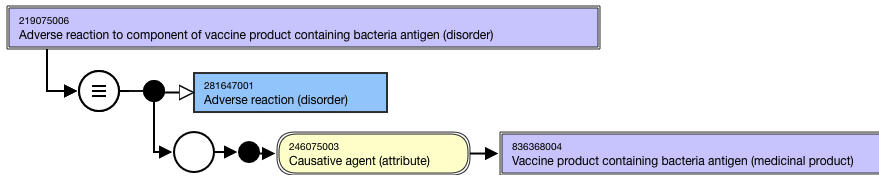
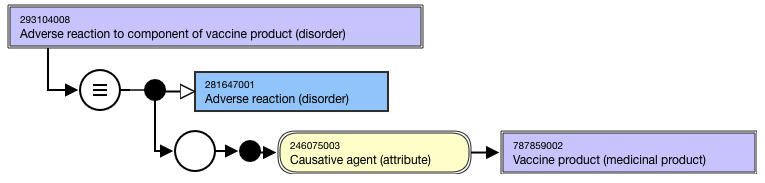
GITBOOK-405: No subject

Changed region(s): [[0.1503, 0.7104, 1.0, 0.9563], [0.0, 0.0, 0.6915, 0.2732], [0.0301, 0.3552, 0.5111, 0.6284]]

diff --git a/readme/authoring/domain-specific-modeling/clinical-finding-and-disorder/clinical-finding-and-disorder-modeling/specific-clinical-finding-and-disorder-modeling/adverse-reaction-to-x-vaccine.md b/readme/authoring/domain-specific-modeling/clinical-finding-and-disorder/clinical-finding-and-disorder-modeling/specific-clinical-finding-and-disorder-modeling/adverse-reaction-to-x-vaccine.md
@@ -10,17 +10,17 @@ The following modeling and terming guidelines apply to concepts in the Internati
 
 **Single or multiple ingredient vaccine**
 
-<table data-header-hidden><thead><tr><th width="250.98046875">Feature</th><th></th></tr></thead><tbody><tr><td><strong>Stated parent concept</strong></td><td>281647001 |Adverse reaction (disorder)|</td></tr><tr><td><strong>Semantic tag</strong></td><td>(disorder)</td></tr><tr><td><strong>Definition status</strong></td><td><p>Primitive</p><p></p><ul><li><strong>Note</strong>: Because 'Adverse reaction to X vaccine' represents the propensity to an adverse reaction to any component (including excipients) of a vaccine rather than the modeled active ingredient(s), these concepts cannot be sufficiently defined. As a result, there will not be subsumption between "Adverse reaction to X vaccine" concepts.</li><li><strong>Exceptions</strong>: Grouper concepts 293104008 |Adverse reaction to component of vaccine product (disorder)|, 219075006 |Adverse reaction to component of vaccine product containing bacteria antigen (disorder)|, and 408672009 |Adverse reaction to component of vaccine product containing virus antigen (disorder)| are modeled as sufficiently defined and subsume the remaining concepts.</li></ul></td></tr><tr><td><p><strong>Attribute:</strong></p><p><strong>Causative agent</strong></p></td><td><ul><li>Range: &#x3C;&#x3C;787859002 |Vaccine product (medicinal product)|</li><li><p>Cardinality: 1..1</p><ul><li>Adverse reaction to X vaccine concepts should have one and only one |Causative agent| attribute.</li><li>Concepts representing "vaccine product containing only" should not be used in modeling Adverse reaction to X vaccine concepts.</li></ul></li></ul></td></tr></tbody></table>
+<table data-header-hidden><thead><tr><th width="250.98046875">Feature</th><th></th></tr></thead><tbody><tr><td><strong>Stated parent concept</strong></td><td>281647001 |Adverse reaction (disorder)|</td></tr><tr><td><strong>Semantic tag</strong></td><td>(disorder)</td></tr><tr><td><strong>Definition status</strong></td><td><p>Primitive</p><ul><li><strong>Note</strong>: Because 'Adverse reaction to X vaccine' represents the propensity to an adverse reaction to any component (including excipients) of a vaccine rather than the modeled active ingredient(s), these concepts cannot be sufficiently defined. As a result, there will not be subsumption between "Adverse reaction to X vaccine" concepts.</li><li><strong>Exceptions</strong>: Grouper concepts 293104008 |Adverse reaction to component of vaccine product (disorder)|, 219075006 |Adverse reaction to component of vaccine product containing bacteria antigen (disorder)|, and 408672009 |Adverse reaction to component of vaccine product containing virus antigen (disorder)| are modeled as sufficiently defined and subsume the remaining concepts.</li></ul></td></tr><tr><td><p><strong>Attribute:</strong></p><p><strong>Causative agent</strong></p></td><td><ul><li>Range: &#x3C;&#x3C;787859002 |Vaccine product (medicinal product)|</li><li><p>Cardinality: 1..1</p><ul><li>Adverse reaction to X vaccine concepts should have one and only one |Causative agent| attribute.</li><li>Concepts representing "vaccine product containing only" should not be used in modeling Adverse reaction to X vaccine concepts.</li></ul></li></ul></td></tr></tbody></table>
 
 ## Terming
 
-<table data-header-hidden><thead><tr><th width="142.3636474609375"></th><th></th></tr></thead><tbody><tr><td><strong>FSN</strong></td><td><p>Use the following pattern for the FSN; align terming and case sensitivity with the FSN for the concept that represents the vaccine product that is the cause of the adverse reaction.</p><ul><li>Adverse reaction to component of &#x3C;Causative agent FSN> (disorder)</li></ul><p>For example,</p><ul><li>Adverse reaction to component of vaccine product containing Hepatitis A virus antigen (disorder)</li><li>Adverse reaction to component of vaccine product containing Streptococcus pneumoniae antigen (disorder)</li><li>Adverse reaction to component of vaccine product containing only Clostridium tetani and Corynebacterium diphtheriae antigens (disorder)</li><li>Adverse reaction to component of vaccine product containing Measles morbillivirus and Mumps orthorubulavirus and Rubella virus antigens (disorder)</li></ul></td></tr><tr><td><strong>Preferred Term</strong></td><td><p>Use the following pattern for the PT; align terming and case significance with the PT for the disorder that is the target of the vaccine. For multiple ingredient vaccine products, the disorders must be listed in alphabetical order and separated by the word "and".</p><ul><li>Adverse reaction to &#x3C;disorder> vaccine</li><li>Adverse reaction to &#x3C;disorder> and &#x3C;disorder> vaccine</li><li>Adverse reaction to &#x3C;disorder> and &#x3C;disorder> and &#x3C;disorder> vaccine</li></ul><p>For example,</p><ul><li>Adverse reaction to hepatitis A vaccine</li><li>Adverse reaction to pneumococcal vaccine</li><li>Adverse reaction to diphtheria and tetanus vaccine</li><li>Adverse reaction to measles and mumps and rubella vaccine</li></ul><p>For national extensions modeling using "vaccine containing only" product concepts, these disorder-based descriptions will need to reflect "only" to eliminate duplicate descriptions.</p></td></tr><tr><td><strong>Synonyms</strong></td><td><p>A synonym corresponding to the FSN is required.</p><p></p><p>Synonyms beginning with the disorder that is the target of the vaccine are allowed. For multiple ingredient vaccine products, the disorders must be listed in alphabetical order and separated by the word "and". Note that these are not true synonyms; they may be updated and identified as "near-synonym" descriptions when that functionality becomes available although that would also potentially require updating the PT.</p><p>For example,</p><ul><li>Hepatitis A vaccine adverse reaction</li><li>Pneumococcal vaccine adverse reaction</li><li>Diphtheria and tetanus vaccine adverse reaction</li><li>Measles and mumps and rubella vaccine adverse reaction</li></ul><p>For national extensions modeling using "vaccine containing only" product concepts, these disorder-based descriptions will need to reflect "only" to eliminate duplicate descriptions.</p></td></tr></tbody></table>
+<table data-header-hidden><thead><tr><th width="142.3636474609375"></th><th></th></tr></thead><tbody><tr><td><strong>FSN</strong></td><td><p>Use the following pattern for the FSN; align terming and case sensitivity with the FSN for the concept that represents the vaccine product that is the cause of the adverse reaction.</p><ul><li>Adverse reaction to component of &#x3C;Causative agent FSN> (disorder)</li></ul><p>For example,</p><ul><li>Adverse reaction to component of vaccine product containing Hepatitis A virus antigen (disorder)</li><li>Adverse reaction to component of vaccine product containing Streptococcus pneumoniae antigen (disorder)</li><li>Adverse reaction to component of vaccine product containing only Clostridium tetani and Corynebacterium diphtheriae antigens (disorder)</li><li>Adverse reaction to component of vaccine product containing Measles morbillivirus and Mumps orthorubulavirus and Rubella virus antigens (disorder)</li></ul></td></tr><tr><td><strong>Preferred Term</strong></td><td><p>Use the following pattern for the PT; align terming and case significance with the PT for the disorder that is the target of the vaccine. For multiple ingredient vaccine products, the disorders must be listed in alphabetical order and separated by the word "and".</p><ul><li>Adverse reaction to &#x3C;disorder> vaccine</li><li>Adverse reaction to &#x3C;disorder> and &#x3C;disorder> vaccine</li><li>Adverse reaction to &#x3C;disorder> and &#x3C;disorder> and &#x3C;disorder> vaccine</li></ul><p>For example,</p><ul><li>Adverse reaction to hepatitis A vaccine</li><li>Adverse reaction to pneumococcal vaccine</li><li>Adverse reaction to diphtheria and tetanus vaccine</li><li>Adverse reaction to measles and mumps and rubella vaccine</li></ul><p>For national extensions modeling using "vaccine containing only" product concepts, these disorder-based descriptions will need to reflect "only" to eliminate duplicate descriptions.</p></td></tr><tr><td><strong>Synonyms</strong></td><td><p>A synonym corresponding to the FSN is required.</p><p>Synonyms beginning with the disorder that is the target of the vaccine are allowed. For multiple ingredient vaccine products, the disorders must be listed in alphabetical order and separated by the word "and". Note that these are not true synonyms; they may be updated and identified as "near-synonym" descriptions when that functionality becomes available although that would also potentially require updating the PT.</p><p>For example,</p><ul><li>Hepatitis A vaccine adverse reaction</li><li>Pneumococcal vaccine adverse reaction</li><li>Diphtheria and tetanus vaccine adverse reaction</li><li>Measles and mumps and rubella vaccine adverse reaction</li></ul><p>For national extensions modeling using "vaccine containing only" product concepts, these disorder-based descriptions will need to reflect "only" to eliminate duplicate descriptions.</p></td></tr></tbody></table>
 
 ## Exemplars
 
 The following illustrates the **stated** and **inferred** view for top level grouper 293104008 |Adverse reaction to vaccine product (disorder)|:
 
-<figure><img src="../../../../../../.gitbook/assets/image.png" alt=""><figcaption></figcaption></figure>
+<figure><img src="../../../../../../.gitbook/assets/image (1).png" alt=""><figcaption></figcaption></figure>
 
 <figure><img src="blob:https://conf.spaces.snomed.org/d39d6c6f-0808-441e-b4ee-20a147e262f9#media-blob-url=true&#x26;id=c686d6f2-19d1-4dca-b5fa-caa4b4b3ea02&#x26;collection=contentId-133240726&#x26;contextId=133240726&#x26;mimeType=application%2Foctet-stream&#x26;name=Screen%20Shot%202020-07-13%20at%2010.42.35%20AM.png&#x26;size=30032&#x26;width=765&#x26;height=183&#x26;alt=" alt=""><figcaption></figcaption></figure>
 
@@ -50,9 +50,4 @@ The following illustrates the **inferred** view for multiple ingredient vaccine 
 
 <figure><img src="../../../../../../authoring/clinical-finding-and-disorder/images/174690451.png" alt=""><figcaption></figcaption></figure>
 
-
-
-
-
-
-<a href="https://docs.google.com/forms/d/e/1FAIpQLScTmbZIf0UEQwYDkY27EEWBkaiYkHSbR0_9DmFrMLXoQLyL7Q/viewform?usp=pp_url&entry.1767247133=SCT+Editorial+Guide&entry.670899847=Adverse%20reaction%20to%20X%20vaccine" class="button primary">Provide Feedback</a>
+<a href="https://docs.google.com/forms/d/e/1FAIpQLScTmbZIf0UEQwYDkY27EEWBkaiYkHSbR0_9DmFrMLXoQLyL7Q/viewform?usp=pp_url&#x26;entry.1767247133=SCT+Editorial+Guide&#x26;entry.670899847=Adverse%20reaction%20to%20X%20vaccine" class="button primary">Provide Feedback</a>

diff --git a/readme/authoring/domain-specific-modeling/physical-object/physical-object-naming-and-modeling-conventions/cardiac-valve-prosthesis-naming-and-modeling.md b/readme/authoring/domain-specific-modeling/physical-object/physical-object-naming-and-modeling-conventions/cardiac-valve-prosthesis-naming-and-modeling.md
@@ -2,31 +2,26 @@
 
 ## Naming
 
-| FSN            | Use the following naming pattern for the FSN; align terming and case sensitivity with the FSN for the concepts selected as the attribute values, excluding the semantic tag. \[is sterile] \[compositional material] \[device intended site] cardiac valve prosthesis (physical object) For example, Biologic cardiac valve prosthesis (physical object) Aortic valve prosthesis (physical object) |
-| -------------- | -------------------------------------------------------------------------------------------------------------------------------------------------------------------------------------------------------------------------------------------------------------------------------------------------------------------------------------------------------------------------------------------------- |
-| Preferred Term | Use the following naming pattern for the PT; align terming and case sensitivity with the PT for the concept that is selected as the attribute value. \[is sterile] \[compositional material]\[device intended site]cardiac valve prosthesis For example, Biologic cardiac valve prosthesis Aortic valve prosthesis                                                                                 |
-| Synonym        | Synonyms are not generally added for concepts in this hierarchy. Exceptions: Heart in place of cardiac , such as in "biologic heart valve prosthesis" "Bioprosthesis" for biologic cardiac valve prosthesis                                                                                                                                                                                        |
+<table><thead><tr><th width="182.86279296875"></th><th></th></tr></thead><tbody><tr><td>FSN</td><td><p>Use the following naming pattern for the FSN; align terming and case sensitivity with the FSN for the concepts selected as the attribute values, excluding the semantic tag. </p><p></p><p>[is sterile] [compositional material] [device intended site] cardiac valve prosthesis (physical object) </p><p></p><ul><li>For example, Biologic cardiac valve prosthesis (physical object) Aortic valve prosthesis (physical object)</li></ul></td></tr><tr><td>Preferred Term</td><td><p>Use the following naming pattern for the PT; align terming and case sensitivity with the PT for the concept that is selected as the attribute value. </p><p></p><p>[is sterile] [compositional material][device intended site]cardiac valve prosthesis </p><p></p><ul><li>For example, Biologic cardiac valve prosthesis Aortic valve prosthesis</li></ul></td></tr><tr><td>Synonym</td><td><p>Synonyms are not generally added for concepts in this hierarchy.</p><ul><li><p>Exceptions: </p><ul><li>Heart in place of cardiac , such as in "biologic heart valve prosthesis" </li><li>"Bioprosthesis" for biologic cardiac valve prosthesis</li></ul></li></ul></td></tr></tbody></table>
 
 ## Modeling (stated view)
 
-| Stated parent concept(s)                          | 14789005 \|Prosthetic implant (physical object)\| 303619008 \|Cardiac implant (physical object)\| 705991002 \|Mechanical heart valve prosthesis (physical object)\|, if applicable 258166002 \|Custom made implant (physical object)\|, if applicable                               |
-| ------------------------------------------------- | ----------------------------------------------------------------------------------------------------------------------------------------------------------------------------------------------------------------------------------------------------------------------------------- |
-| Semantic tag                                      | (physical object)                                                                                                                                                                                                                                                                   |
-| Attribute: Has device intended site (attribute)   | Range: <<123037004 \|Body structure (body structure)\| NOTE: NOTE: While the MRCM allowed range includes the top-level concept, 123037004 \|Body structure (body structure)\|, only the descendants should be used in modeling cardiac valve prosthesis concepts. Cardinality: 0..1 |
-| Attribute: Has compositional material (attribute) | Range: <<105590001 \|Substance (substance)\| NOTE: While the MRCM allowed range includes the top-level concept, 105590001 \|Substance (substance)\|, only the descendants should be used in modeling cardiac valve prosthesis concepts. Cardinality: 0..\*                          |
-| Attribute: Is sterile (attribute)                 | Range: 31874001 \|True (qualifier value)\| OR 64100000 \|False (qualifier value) Cardinality: 0..1                                                                                                                                                                                  |
+|                                                   |                                                                                                                                                                                                                                                                                                                                                  |
+| ------------------------------------------------- | ------------------------------------------------------------------------------------------------------------------------------------------------------------------------------------------------------------------------------------------------------------------------------------------------------------------------------------------------ |
+| Stated parent concept(s)                          | <ul><li>14789005 |Prosthetic implant (physical object)| </li><li>303619008 |Cardiac implant (physical object)| </li><li>705991002 |Mechanical heart valve prosthesis (physical object)|, if applicable </li><li>258166002 |Custom made implant (physical object)|, if applicable</li></ul>                                                       |
+| Semantic tag                                      | (physical object)                                                                                                                                                                                                                                                                                                                                |
+| Attribute: Has device intended site (attribute)   | <ul><li><p>Range: &#x3C;&#x3C;123037004 |Body structure (body structure)| </p><ul><li>NOTE: While the MRCM allowed range includes the top-level concept, 123037004 |Body structure (body structure)|, only the descendants should be used in modeling cardiac valve prosthesis concepts. </li></ul></li></ul><ul><li>Cardinality: 0..1</li></ul> |
+| Attribute: Has compositional material (attribute) | <ul><li><p>Range: &#x3C;&#x3C;105590001 |Substance (substance)| </p><ul><li>NOTE: While the MRCM allowed range includes the top-level concept, 105590001 |Substance (substance)|, only the descendants should be used in modeling cardiac valve prosthesis concepts. </li></ul></li></ul><ul><li>Cardinality: 0..*</li></ul>                     |
+| Attribute: Is sterile (attribute)                 | <ul><li>Range: 31874001 |True (qualifier value)| OR 64100000 |False (qualifier value)</li><li>Cardinality: 0..1</li></ul>                                                                                                                                                                                                                        |
 
 ## Exemplars
 
 The following illustrates the **stated** view for 736893007 |Aortic tri-leaflet mechanical valve prosthesis (physical object)|:
 
-<figure><img src="../../../../../authoring/physical-object/images/174691277.png" alt=""><figcaption><p>The following illustrates the <strong>inferred</strong> view for 736893007 |Aortic tri-leaflet mechanical valve prosthesis (physical object)|:</p></figcaption></figure>
+<figure><img src="../../../../../.gitbook/assets/image.png" alt=""><figcaption></figcaption></figure>
+
+<figure><img src="../../../../../authoring/physical-object/images/174691277.png" alt=""><figcaption></figcaption></figure>
 
 <figure><img src="../../../../../authoring/physical-object/images/174691278.png" alt=""><figcaption></figcaption></figure>
 
-
-
-
-
-
-<a href="https://docs.google.com/forms/d/e/1FAIpQLScTmbZIf0UEQwYDkY27EEWBkaiYkHSbR0_9DmFrMLXoQLyL7Q/viewform?usp=pp_url&entry.1767247133=SCT+Editorial+Guide&entry.670899847=Cardiac%20Valve%20Prosthesis%20Naming%20and%20Modeling" class="button primary">Provide Feedback</a>
+<a href="https://docs.google.com/forms/d/e/1FAIpQLScTmbZIf0UEQwYDkY27EEWBkaiYkHSbR0_9DmFrMLXoQLyL7Q/viewform?usp=pp_url&#x26;entry.1767247133=SCT+Editorial+Guide&#x26;entry.670899847=Cardiac%20Valve%20Prosthesis%20Naming%20and%20Modeling" class="button primary">Provide Feedback</a>

diff --git a/readme/authoring/domain-specific-modeling/procedure/index-2/README.md b/readme/authoring/domain-specific-modeling/procedure/index-2/README.md
@@ -22,11 +22,11 @@ The evaluation procedure hierarchy is currently classified under _Procedure by m
     * Measurement procedure (procedure)
     * Physical examination assessment (procedure)
 
-<figure><img src="../../../../../.gitbook/assets/image (1) (1).png" alt=""><figcaption><p>Evaluation procedures can be defined by a Method (attribute) of Evaluation - action (qualifier value)</p></figcaption></figure>
+<figure><img src="../../../../../.gitbook/assets/image (1) (1) (4).png" alt=""><figcaption><p>Evaluation procedures can be defined by a Method (attribute) of Evaluation - action (qualifier value)</p></figcaption></figure>
 
 <figure><img src="../../../../../authoring/images/174691284.png" alt=""><figcaption></figcaption></figure>
 
-Subtypes of Evaluation-action (qualifier value) include:&#x20;
+Subtypes of Evaluation-action (qualifier value) include:
 
 * Examination - action (qualifier value)
 * Imaging - action (qualifier value)
@@ -36,15 +36,15 @@ Subtypes of Evaluation-action (qualifier value) include:&#x20;
 
 ## Out of scope of procedures <a href="#out-of-scope-of-procedures" id="out-of-scope-of-procedures"></a>
 
-SNOMED International is no longer accepting new concepts to the 122869004 |Measurement procedure (procedure)| hierarchy.  New requests for content in this area will be created in the 363787002 |Observable entity (observable entity)| hierarchy.  If new content is needed in the 122869004 |Measurement procedure (procedure)| hierarchy to satisfy existing use cases, it can be created in national extensions in the procedure hierarchy.  Please see [Observable Entity](https://conf.spaces.snomed.org/wiki/spaces/DOCEG/pages/133241191) and [Observable Entity Naming Conventions](https://conf.spaces.snomed.org/wiki/spaces/DOCEG/pages/133241263) pages for more information.&#x20;
+SNOMED International is no longer accepting new concepts to the 122869004 |Measurement procedure (procedure)| hierarchy. New requests for content in this area will be created in the 363787002 |Observable entity (observable entity)| hierarchy. If new content is needed in the 122869004 |Measurement procedure (procedure)| hierarchy to satisfy existing use cases, it can be created in national extensions in the procedure hierarchy. Please see [Observable Entity](https://conf.spaces.snomed.org/wiki/spaces/DOCEG/pages/133241191) and [Observable Entity Naming Conventions](https://conf.spaces.snomed.org/wiki/spaces/DOCEG/pages/133241263) pages for more information.
 
-SNOMED International is no longer accepting new concepts in the 127789004 |Laboratory procedure categorized by method (procedure)| hierarchy. New requests for concepts which are solely techniques should be created in the 272394005 | Technique (qualifier value)| subhierarchy.  New content that is an observation using a technique belongs in the 363787002 |Observable entity (observable entity)| hierarchy.  If new content is needed in the 127789004 |Laboratory procedure categorized by method (procedure)| hierarchy to satisfy existing use cases, it can be created in national extensions in the procedure hierarchy.  Please see the [Technique](https://conf.spaces.snomed.org/wiki/spaces/DOCEG/pages/133247202) and the [Observable Entity](https://conf.spaces.snomed.org/wiki/spaces/DOCEG/pages/133241191) pages for more information.
+SNOMED International is no longer accepting new concepts in the 127789004 |Laboratory procedure categorized by method (procedure)| hierarchy. New requests for concepts which are solely techniques should be created in the 272394005 | Technique (qualifier value)| subhierarchy. New content that is an observation using a technique belongs in the 363787002 |Observable entity (observable entity)| hierarchy. If new content is needed in the 127789004 |Laboratory procedure categorized by method (procedure)| hierarchy to satisfy existing use cases, it can be created in national extensions in the procedure hierarchy. Please see the [Technique](https://conf.spaces.snomed.org/wiki/spaces/DOCEG/pages/133247202) and the [Observable Entity](https://conf.spaces.snomed.org/wiki/spaces/DOCEG/pages/133241191) pages for more information.
 
 ### Procedures by count <a href="#procedures-by-count" id="procedures-by-count"></a>
 
 #### Counts of the number of procedures <a href="#counts-of-the-number-of-procedures" id="counts-of-the-number-of-procedures"></a>
 
-Many procedure classifications focus on resources required to complete; this may be for reimbursement or tracking purposes (e.g. placement of one stent versus placement of two stents).  This information should be part of patient documentation and is not allowed in the International Release.
+Many procedure classifications focus on resources required to complete; this may be for reimbursement or tracking purposes (e.g. placement of one stent versus placement of two stents). This information should be part of patient documentation and is not allowed in the International Release.
 
 #### Order of procedures <a href="#order-of-procedures" id="order-of-procedures"></a>
 
@@ -78,13 +78,13 @@ The interpretation of primary may be:
 * Examples of unacceptable descriptions,
   * Primary anterior decompression of cervical spinal cord (procedure)
   * Primary anterior excision of cervical intervertebral disc (procedure)
-  * Primary arthrodesis of interphalangeal joint of toe (procedure)&#x20;
+  * Primary arthrodesis of interphalangeal joint of toe (procedure)
   * Primary anterolateral excision of thoracic intervertebral disc (procedure)
 
 {% hint style="warning" %}
 **"First" and “Subsequent” Procedures**
 
-"First" and “subsequent” procedures are not allowed, as they are inherently ambiguous and relative.  While administratively relevant, the additional descriptions of the procedure are not clinically relevant.&#x20;
+"First" and “subsequent” procedures are not allowed, as they are inherently ambiguous and relative. While administratively relevant, the additional descriptions of the procedure are not clinically relevant.
 
 **Unacceptable examples**
 
@@ -92,9 +92,4 @@ The interpretation of primary may be:
 * Antenatal subsequent blood tests (procedure)
 {% endhint %}
 
-
-
-
-
-
-<a href="https://docs.google.com/forms/d/e/1FAIpQLScTmbZIf0UEQwYDkY27EEWBkaiYkHSbR0_9DmFrMLXoQLyL7Q/viewform?usp=pp_url&entry.1767247133=SCT+Editorial+Guide&entry.670899847=Procedure%20Modeling" class="button primary">Provide Feedback</a>
+<a href="https://docs.google.com/forms/d/e/1FAIpQLScTmbZIf0UEQwYDkY27EEWBkaiYkHSbR0_9DmFrMLXoQLyL7Q/viewform?usp=pp_url&#x26;entry.1767247133=SCT+Editorial+Guide&#x26;entry.670899847=Procedure%20Modeling" class="button primary">Provide Feedback</a>
